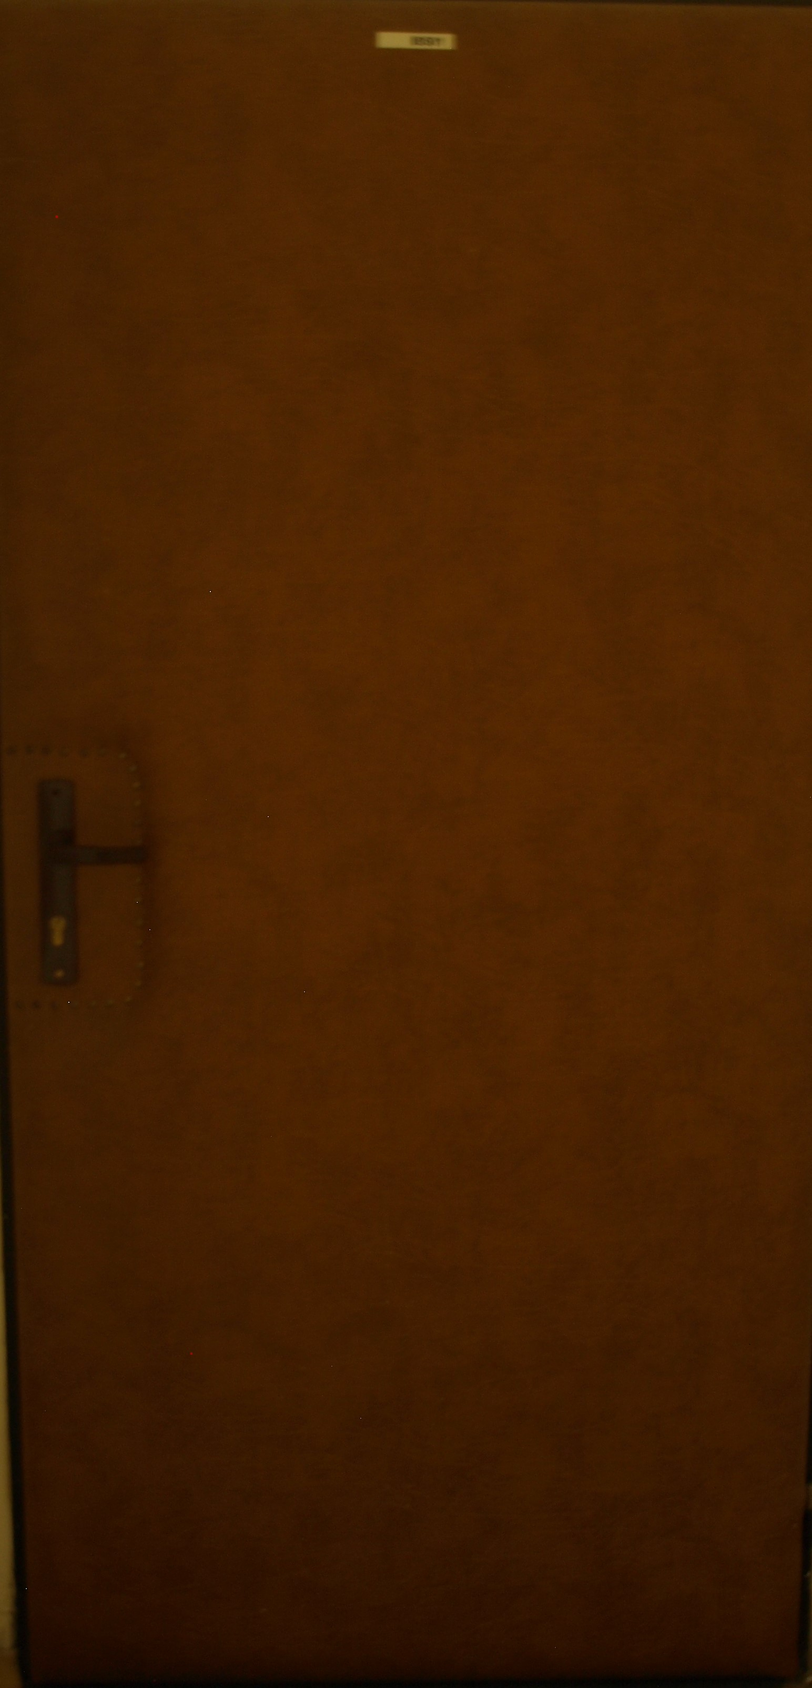
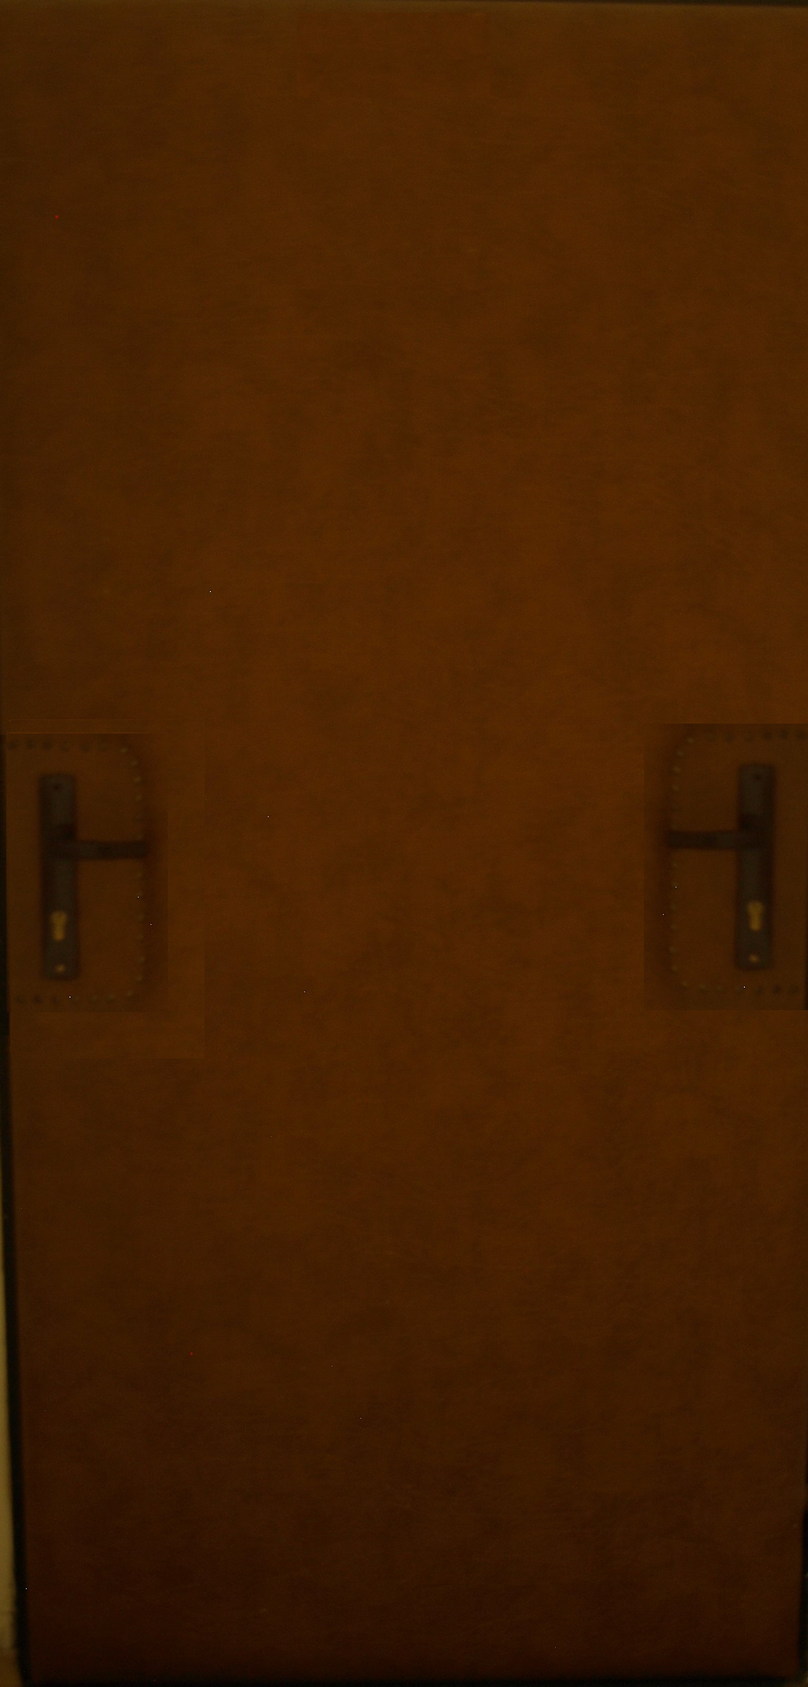
update

diff --git a/public/index.html b/public/index.html
@@ -66,8 +66,15 @@
     <a-box height="28" width="20" depth="0" rotation="0 0 0" position="-49.7 0.5 39" color="grey" static-body></a-box>
     <a-box height="28" width="50" depth="0" rotation="0 0 0" position="-44.75 0.5 15.5" color="grey" static-body></a-box>
     <a-box height="28" width="20" depth="0" rotation="0 0 0" position="-39 0.5 40" color="grey" static-body></a-box>
+    <a-box height="28" width="85" depth="0" rotation="0 0 0" position="-77.507 0.5 42.365" color="#4E3612" static-body></a-box>
 
-
+    <a-box height="28" width="30" depth="0" rotation="0 0 0" position="-145 0.5 42.365" color="#4E3612" static-body></a-box>
+    <a-box height="28" width="30" depth="0" rotation="0 0 0" position="-185 0.5 42.365" color="#4E3612" static-body></a-box>
+    <a-box height="28" width="30" depth="0" rotation="0 0 0" position="-225 0.5 42.365" color="#4E3612" static-body></a-box>
+    <a-box height="28" width="30" depth="0" rotation="0 0 0" position="-265 0.5 42.365" color="#4E3612" static-body></a-box>
+    <a-box height="28" width="30" depth="0" rotation="0 0 0" position="-305 0.5 42.365" color="#4E3612" static-body></a-box>
+    <a-box height="28" width="30" depth="0" rotation="0 0 0" position="-345 0.5 42.365" color="#4E3612" static-body></a-box>
+    <a-box height="28" width="75" depth="0" rotation="0 0 0" position="-406.87 0.5 42.365" color="#4E3612" static-body></a-box>
     <a-assets>
 
         <!-- Avatar -->
@@ -122,11 +129,8 @@
         <a-asset-item id="material1" src="assets/zabradlie.mtl"></a-asset-item>
         <a-asset-item id="object2" src="assets/zabradlie2.obj"></a-asset-item>
         <a-asset-item id="material2" src="assets/zabradlie2.mtl"></a-asset-item>
-        <a-asset-item id="testo" src="assets/test.obj"></a-asset-item>
-        <a-asset-item id="testm" src="assets/test.mtl"></a-asset-item>
     </a-assets>
 
-    <a-obj-model src="#testo" mtl="#testm" position="0 0 7"></a-obj-model>
 
 
     <a-obj-model src="#object" mtl="#material" scale="0.05 0.07 0.05" position="-3 -0.5 -0.5" static-body></a-obj-model>
@@ -173,33 +177,29 @@
 
     <!--   Game    -->
     <a-entity position="-469.5 6 16">
-        <a-triangle mixin="triangle red"
+        <a-triangle mixin="cube red"
                     rotation="0 0 0" animation__click="property: rotation; to: 0 360 0;startEvents: click; loop: true; dur:200; fill: both"
                     animation__click__2="property: object3D.position.y; to: -10; startEvents: click; dur:2000; fill: backwards"
         >
-            <!--            <a-animation begin="click" attribute="position" from="0 0 0"-->
-            <!--                         to="0 -10 0" dur="2000" fill="both" loop="false"></a-animation>-->
-            <!--            <a-animation begin="click" attribute="rotation" to="0 360 0"-->
-            <!--                         easing="linear" dur="2000" fill="backwards"></a-animation>-->
 
         </a-triangle>
     </a-entity>
 
     <a-entity position="-450 6 16">
-        <a-cylinder  mixin="cylinder green"
+        <a-sky  mixin="cube green"
                      rotation="0 0 0" animation__click="property: rotation; to: 0 360 0;startEvents: click; loop: true; dur:200; fill: both"
                      animation__click__2="property: object3D.position.y; to: -10; startEvents: click; dur:2000; fill: backwards">
-        </a-cylinder>
+        </a-sky>
     </a-entity>
 
     <a-entity position="13 6 -190">
-        <a-sphere mixin="sphere blue"
+        <a-sphere mixin="cube blue"
                   rotation="0 0 0" animation__click="property: rotation; to: 0 360 0;startEvents: click; loop: true; dur:200; fill: both"
                   animation__click__2="property: object3D.position.y; to: -10; startEvents: click; dur:2000; fill: backwards">
         </a-sphere>
     </a-entity>
     <a-entity position="3 6 -27">
-        <a-plane mixin="plane yellow"
+        <a-plane mixin="cube yellow"
                  rotation="0 0 0" animation__click="property: rotation; to: 0 360 0;startEvents: click; loop: true; dur:200; fill: both"
                  animation__click__2="property: object3D.position.y; to: -10; startEvents: click; dur:2000; fill: backwards">
         </a-plane>
@@ -235,27 +235,28 @@
            color="#767676"></a-box>
 
     <!--    L9B -->
-    <a-box position="-51.754 6.5 68" rotation="0 0 0" radius="2" height="16" width="25" color="#767676" static-body></a-box>
-    <a-box position="-80 6.5 68" rotation="0 0 0" radius="2" height="16" width="7.5" color="#767676" static-body></a-box>
-    <a-box position="-245.84 6.5 137.37" rotation="0 0 0" radius="2" height="16" width="380" color="#767676" static-body></a-box>
-    <a-box position="-100 6.5 68" rotation="0 0 0" radius="2" height="16" width="7.5" color="#767676" static-body></a-box>
-    <a-box position="-120 6.5 68" rotation="0 0 0" radius="2" height="16" width="7.5" color="#767676" static-body></a-box>
-    <a-box position="-140 6.5 68" rotation="0 0 0" radius="2" height="16" width="7.5" color="#767676" static-body></a-box>
-    <a-box position="-160 6.5 68" rotation="0 0 0" radius="2" height="16" width="7.5" color="#767676" static-body></a-box>
-    <a-box position="-180 6.5 68" rotation="0 0 0" radius="2" height="16" width="7.5" color="#767676" static-body></a-box>
-    <a-box position="-200 6.5 68" rotation="0 0 0" radius="2" height="16" width="7.5" color="#767676" static-body></a-box>
-    <a-box position="-220 6.5 68" rotation="0 0 0" radius="2" height="16" width="7.5" color="#767676" static-body></a-box>
-    <a-box position="-240 6.5 68" rotation="0 0 0" radius="2" height="16" width="7.5" color="#767676" static-body></a-box>
-    <a-box position="-260 6.5 68" rotation="0 0 0" radius="2" height="16" width="7.5" color="#767676" static-body></a-box>
-    <a-box position="-280 6.5 68" rotation="0 0 0" radius="2" height="16" width="7.5" color="#767676" static-body></a-box>
-    <a-box position="-300 6.5 68" rotation="0 0 0" radius="2" height="16" width="7.5" color="#767676" static-body></a-box>
-    <a-box position="-320 6.5 68" rotation="0 0 0" radius="2" height="16" width="7.5" color="#767676" static-body></a-box>
-    <a-box position="-340 6.5 68" rotation="0 0 0" radius="2" height="16" width="7.5" color="#767676" static-body></a-box>
-    <a-box position="-360 6.5 68" rotation="0 0 0" radius="2" height="16" width="7.5" color="#767676" static-body></a-box>
-    <a-box position="-380 6.5 68" rotation="0 0 0" radius="2" height="16" width="7.5" color="#767676" static-body></a-box>
-    <a-box position="-400 6.5 68" rotation="0 0 0" radius="2" height="16" width="7.5" color="#767676" static-body></a-box>
-    <a-box position="-420 6.5 68" rotation="0 0 0" radius="2" height="16" width="7.5" color="#767676" static-body></a-box>
-    <a-box position="-430 6.5 68" rotation="0 0 0" radius="2" height="16" width="27.5" color="#767676" static-body></a-box>
+    <a-box position="-51.754 6.5 68" rotation="0 0 0" radius="2" height="16" width="33" color="#4E3612" static-body></a-box>
+    <a-box position="-82 6.5 68" rotation="0 0 0" radius="2" height="16" width="12" color="#4E3612" static-body></a-box>
+    <a-box position="-245.84 6.5 137.37" rotation="0 0 0" radius="2" height="16" width="380" color="grey" static-body></a-box>
+    <a-box position="-102 6.5 68" rotation="0 0 0" radius="2" height="16" width="12" color="#4E3612" static-body></a-box>
+    <a-box position="-122 6.5 68" rotation="0 0 0" radius="2" height="16" width="12" color="#4E3612" static-body></a-box>
+    <a-box position="-142 6.5 68" rotation="0 0 0" radius="2" height="16" width="12" color="#4E3612" static-body></a-box>
+    <a-box position="-162 6.5 68" rotation="0 0 0" radius="2" height="16" width="12" color="#4E3612" static-body></a-box>
+    <a-box position="-182 6.5 68" rotation="0 0 0" radius="2" height="16" width="12" color="#4E3612" static-body></a-box>
+    <a-box position="-202 6.5 68" rotation="0 0 0" radius="2" height="16" width="12" color="#4E3612" static-body></a-box>
+    <a-box position="-222 6.5 68" rotation="0 0 0" radius="2" height="16" width="12" color="#4E3612" static-body></a-box>
+    <a-box position="-242 6.5 68" rotation="0 0 0" radius="2" height="16" width="12" color="#4E3612" static-body></a-box>
+    <a-box position="-262 6.5 68" rotation="0 0 0" radius="2" height="16" width="12" color="#4E3612" static-body></a-box>
+    <a-box position="-282 6.5 68" rotation="0 0 0" radius="2" height="16" width="12" color="#4E3612" static-body></a-box>
+    <a-box position="-302 6.5 68" rotation="0 0 0" radius="2" height="16" width="12" color="#4E3612" static-body></a-box>
+    <a-box position="-322 6.5 68" rotation="0 0 0" radius="2" height="16" width="12" color="#4E3612" static-body></a-box>
+    <a-box position="-342 6.5 68" rotation="0 0 0" radius="2" height="16" width="12" color="#4E3612" static-body></a-box>
+    <a-box position="-362 6.5 68" rotation="0 0 0" radius="2" height="16" width="12" color="#4E3612" static-body></a-box>
+    <a-box position="-382 6.5 68" rotation="0 0 0" radius="2" height="16" width="12" color="#4E3612" static-body></a-box>
+    <a-box position="-402 6.5 68" rotation="0 0 0" radius="2" height="16" width="12" color="#4E3612" static-body></a-box>
+    <a-box position="-422 6.5 68" rotation="0 0 0" radius="2" height="16" width="12" color="#4E3612" static-body></a-box>
+    <a-box position="-432 6.5 68" rotation="0 0 0" radius="2" height="16" width="27.5" color="#4E3612" static-body></a-box>
+
 
     <a-box position="-56.572 6.5 102.88" rotation="0 90 0" radius="2" height="16" width="70" color="#767676" static-body></a-box>
     <a-box position="-76.572 6.5 102.88" rotation="0 90 0" radius="2" height="16" width="70" color="#767676" static-body></a-box>
@@ -276,45 +277,103 @@
     <a-box position="-376.572 6.5 102.88" rotation="0 90 0" radius="2" height="16" width="70" color="#767676" static-body></a-box>
     <a-box position="-396.572 6.5 102.88" rotation="0 90 0" radius="2" height="16" width="70" color="#767676" static-body></a-box>
     <a-box position="-416.572 6.5 102.88" rotation="0 90 0" radius="2" height="16" width="70" color="#767676" static-body></a-box>
-<!--    <a-box position="-48.4 6.5 40" rotation="0 0 0" radius="2" height="16" width="8" static-body-->
-<!--           color="#767676"></a-box>-->
-<!--    <a-box position="-47 6.5 40" rotation="0 0 0" radius="2" height="16" width="8" static-body-->
-<!--           color="#767676"></a-box>-->
-<!--    <a-box position="-63 6.5 40" rotation="0 0 0" radius="2" height="16" width="8" static-body-->
-<!--           color="#767676"></a-box>-->
-<!--    <a-box position="-79 6.5 40" rotation="0 0 0" radius="2" height="16" width="8" static-body-->
-<!--           color="#767676"></a-box>-->
-<!--    <a-box position="-95 6.5 40" rotation="0 0 0" radius="2" height="16" width="8" static-body-->
-<!--           color="#767676"></a-box>-->
-<!--    <a-box position="-111 6.5 40" rotation="0 0 0" radius="2" height="16" width="8" static-body-->
-<!--           color="#767676"></a-box>-->
-<!--    <a-box position="-127 6.5 40" rotation="0 0 0" radius="2" height="16" width="8" static-body-->
-<!--           color="#767676"></a-box>-->
-<!--    <a-box position="-143 6.5 40" rotation="0 0 0" radius="2" height="16" width="8" static-body-->
-<!--           color="#767676"></a-box>-->
-<!--    <a-box position="-159 6.5 40" rotation="0 0 0" radius="2" height="16" width="8" static-body-->
-<!--           color="#767676"></a-box>-->
-<!--    <a-box position="-175 6.5 40" rotation="0 0 0" radius="2" height="16" width="8" static-body-->
-<!--           color="#767676"></a-box>-->
 
-<!--    <a-box position="-47 6.5 68" rotation="0 0 0" radius="2" height="16" width="8" static-body-->
-<!--           color="#767676"></a-box>-->
-<!--    <a-box position="-63 6.5 68" rotation="0 0 0" radius="2" height="16" width="8" static-body-->
-<!--           color="#767676"></a-box>-->
-<!--    <a-box position="-79 6.5 68" rotation="0 0 0" radius="2" height="16" width="8" static-body-->
-<!--           color="#767676"></a-box>-->
-<!--    <a-box position="-95 6.5 68" rotation="0 0 0" radius="2" height="16" width="8" static-body-->
-<!--           color="#767676"></a-box>-->
-<!--    <a-box position="-111 6.5 68" rotation="0 0 0" radius="2" height="16" width="8" static-body-->
-<!--           color="#767676"></a-box>-->
-<!--    <a-box position="-127 6.5 68" rotation="0 0 0" radius="2" height="16" width="8" static-body-->
-<!--           color="#767676"></a-box>-->
-<!--    <a-box position="-143 6.5 68" rotation="0 0 0" radius="2" height="16" width="8" static-body-->
-<!--           color="#767676"></a-box>-->
-<!--    <a-box position="-159 6.5 68" rotation="0 0 0" radius="2" height="16" width="8" static-body-->
-<!--           color="#767676"></a-box>-->
-<!--    <a-box position="-175 6.5 68" rotation="0 0 0" radius="2" height="16" width="8" static-body-->
-<!--           color="#767676"></a-box>-->
+    <a-assets>
+        <img id="texture" src="img/door11.jpg" alt="door">
+    </a-assets>
+
+   <a-box src="#texture" animation__click="property: rotation; to: 0 90 0;startEvents: click; loop: false; dur:2000;" position="-76.55 6.5 67.999" rotation="0 0 0" radius="2" height="16" width="17" depth="0.8" static-body>
+   </a-box>
+    <a-box src="#texture" animation__click="property: rotation; to: 0 90 0;startEvents: click; loop: false; dur:2000;" position="-96.55 6.5 67.999" rotation="0 0 0" radius="2" height="16" width="17" depth="0.8" static-body>
+    </a-box>
+    <a-box src="#texture" animation__click="property: rotation; to: 0 90 0;startEvents: click; loop: false; dur:2000;" position="-116.55 6.5 67.999" rotation="0 0 0" radius="2" height="16" width="17" depth="0.8" static-body>
+    </a-box>
+    <a-box src="#texture" animation__click="property: rotation; to: 0 90 0;startEvents: click; loop: false; dur:2000;" position="-136.55 6.5 67.999" rotation="0 0 0" radius="2" height="16" width="17" depth="0.8" static-body>
+    </a-box>
+    <a-box src="#texture" animation__click="property: rotation; to: 0 90 0;startEvents: click; loop: false; dur:2000;" position="-156.55 6.5 67.999" rotation="0 0 0" radius="2" height="16" width="17" depth="0.8" static-body>
+    </a-box>
+    <a-box src="#texture" animation__click="property: rotation; to: 0 90 0;startEvents: click; loop: false; dur:2000;" position="-176.55 6.5 67.999" rotation="0 0 0" radius="2" height="16" width="17" depth="0.8" static-body>
+    </a-box>
+    <a-box src="#texture" animation__click="property: rotation; to: 0 90 0;startEvents: click; loop: false; dur:2000;" position="-196.55 6.5 67.999" rotation="0 0 0" radius="2" height="16" width="17" depth="0.8" static-body>
+    </a-box>
+    <a-box src="#texture" animation__click="property: rotation; to: 0 90 0;startEvents: click; loop: false; dur:2000;" position="-216.55 6.5 67.999" rotation="0 0 0" radius="2" height="16" width="17" depth="0.8" static-body>
+    </a-box>
+    <a-box src="#texture" animation__click="property: rotation; to: 0 90 0;startEvents: click; loop: false; dur:2000;" position="-236.55 6.5 67.999" rotation="0 0 0" radius="2" height="16" width="17" depth="0.8" static-body>
+    </a-box>
+    <a-box src="#texture" animation__click="property: rotation; to: 0 90 0;startEvents: click; loop: false; dur:2000;" position="-256.55 6.5 67.999" rotation="0 0 0" radius="2" height="16" width="17" depth="0.8" static-body>
+    </a-box>
+    <a-box src="#texture" animation__click="property: rotation; to: 0 90 0;startEvents: click; loop: false; dur:2000;" position="-276.55 6.5 67.999" rotation="0 0 0" radius="2" height="16" width="17" depth="0.8" static-body>
+    </a-box>
+    <a-box src="#texture" animation__click="property: rotation; to: 0 90 0;startEvents: click; loop: false; dur:2000;" position="-296.55 6.5 67.999" rotation="0 0 0" radius="2" height="16" width="17" depth="0.8" static-body>
+    </a-box>
+    <a-box src="#texture" animation__click="property: rotation; to: 0 90 0;startEvents: click; loop: false; dur:2000;" position="-316.55 6.5 67.999" rotation="0 0 0" radius="2" height="16" width="17" depth="0.8" static-body>
+    </a-box>
+    <a-box src="#texture" animation__click="property: rotation; to: 0 90 0;startEvents: click; loop: false; dur:2000;" position="-336.55 6.5 67.999" rotation="0 0 0" radius="2" height="16" width="17" depth="0.8" static-body>
+    </a-box>
+    <a-box src="#texture" animation__click="property: rotation; to: 0 90 0;startEvents: click; loop: false; dur:2000;" position="-356.55 6.5 67.999" rotation="0 0 0" radius="2" height="16" width="17" depth="0.8" static-body>
+    </a-box>
+    <a-box src="#texture" animation__click="property: rotation; to: 0 90 0;startEvents: click; loop: false; dur:2000;" position="-376.55 6.5 67.999" rotation="0 0 0" radius="2" height="16" width="17" depth="0.8" static-body>
+    </a-box>
+    <a-box src="#texture" animation__click="property: rotation; to: 0 90 0;startEvents: click; loop: false; dur:2000;" position="-396.55 6.5 67.999" rotation="0 0 0" radius="2" height="16" width="17" depth="0.8" static-body>
+    </a-box>
+    <a-box src="#texture" animation__click="property: rotation; to: 0 90 0;startEvents: click; loop: false; dur:2000;" position="-416.55 6.5 67.999" rotation="0 0 0" radius="2" height="16" width="17" depth="0.8" static-body>
+    </a-box>
+
+
+    <a-image src="#my-image33"  position="-124.63 6.5 41.94" rotation="0 0 0" radius="1" height="16" width="11.5" static-body></a-image>
+    <a-image src="#my-image44"  position="-164.99 6.5 41.94" rotation="0 0 0" radius="1" height="16" width="10" static-body></a-image>
+    <a-image src="#my-image33"  position="-204.63 6.5 41.94" rotation="0 0 0" radius="1" height="16" width="11.5" static-body></a-image>
+    <a-image src="#my-image44"  position="-244.99 6.5 41.94" rotation="0 0 0" radius="1" height="16" width="10" static-body></a-image>
+    <a-image src="#my-image44"  position="-284.99 6.5 41.94" rotation="0 0 0" radius="1" height="16" width="10" static-body></a-image>
+    <a-image src="#my-image33"  position="-324.63 6.5 41.94" rotation="0 0 0" radius="1" height="16" width="11.5" static-body></a-image>
+
+    <a-image src="#my-image11"  position="-62.2 7.284 136.75" rotation="0 0 0" height="10" width="7" static-body></a-image>
+    <a-image src="#my-image11"  position="-82.2 7.284 136.75" rotation="0 0 0" height="10" width="7" static-body></a-image>
+    <a-image src="#my-image11"  position="-102.2 7.284 136.75" rotation="0 0 0" height="10" width="7" static-body></a-image>
+    <a-image src="#my-image11"  position="-122.2 7.284 136.75" rotation="0 0 0" height="10" width="7" static-body></a-image>
+    <a-image src="#my-image11"  position="-142.2 7.284 136.75" rotation="0 0 0" height="10" width="7" static-body></a-image>
+    <a-image src="#my-image11"  position="-162.2 7.284 136.75" rotation="0 0 0" height="10" width="7" static-body></a-image>
+    <a-image src="#my-image11"  position="-182.2 7.284 136.75" rotation="0 0 0" height="10" width="7" static-body></a-image>
+    <a-image src="#my-image11"  position="-202.2 7.284 136.75" rotation="0 0 0" height="10" width="7" static-body></a-image>
+    <a-image src="#my-image11"  position="-222.2 7.284 136.75" rotation="0 0 0" height="10" width="7" static-body></a-image>
+    <a-image src="#my-image11"  position="-242.2 7.284 136.75" rotation="0 0 0" height="10" width="7" static-body></a-image>
+    <a-image src="#my-image11"  position="-262.2 7.284 136.75" rotation="0 0 0" height="10" width="7" static-body></a-image>
+    <a-image src="#my-image11"  position="-282.2 7.284 136.75" rotation="0 0 0" height="10" width="7" static-body></a-image>
+    <a-image src="#my-image11"  position="-302.2 7.284 136.75" rotation="0 0 0" height="10" width="7" static-body></a-image>
+    <a-image src="#my-image11"  position="-322.2 7.284 136.75" rotation="0 0 0" height="10" width="7" static-body></a-image>
+    <a-image src="#my-image11"  position="-342.2 7.284 136.75" rotation="0 0 0" height="10" width="7" static-body></a-image>
+    <a-image src="#my-image11"  position="-362.2 7.284 136.75" rotation="0 0 0" height="10" width="7" static-body></a-image>
+    <a-image src="#my-image11"  position="-382.2 7.284 136.75" rotation="0 0 0" height="10" width="7" static-body></a-image>
+    <a-image src="#my-image11"  position="-402.2 7.284 136.75" rotation="0 0 0" height="10" width="7" static-body></a-image>
+
+
+    <a-image src="#my-image11"  position="-70.6 7.284 136.75" rotation="0 0 0" height="10" width="7" static-body></a-image>
+    <a-image src="#my-image11"  position="-90.6 7.284 136.75" rotation="0 0 0" height="10" width="7" static-body></a-image>
+    <a-image src="#my-image11"  position="-110.6 7.284 136.75" rotation="0 0 0" height="10" width="7" static-body></a-image>
+    <a-image src="#my-image11"  position="-130.6 7.284 136.75" rotation="0 0 0" height="10" width="7" static-body></a-image>
+    <a-image src="#my-image11"  position="-150.6 7.284 136.75" rotation="0 0 0" height="10" width="7" static-body></a-image>
+    <a-image src="#my-image11"  position="-170.6 7.284 136.75" rotation="0 0 0" height="10" width="7" static-body></a-image>
+    <a-image src="#my-image11"  position="-190.6 7.284 136.75" rotation="0 0 0" height="10" width="7" static-body></a-image>
+    <a-image src="#my-image11"  position="-210.6 7.284 136.75" rotation="0 0 0" height="10" width="7" static-body></a-image>
+    <a-image src="#my-image11"  position="-230.6 7.284 136.75" rotation="0 0 0" height="10" width="7" static-body></a-image>
+    <a-image src="#my-image11"  position="-250.6 7.284 136.75" rotation="0 0 0" height="10" width="7" static-body></a-image>
+    <a-image src="#my-image11"  position="-270.6 7.284 136.75" rotation="0 0 0" height="10" width="7" static-body></a-image>
+    <a-image src="#my-image11"  position="-290.6 7.284 136.75" rotation="0 0 0" height="10" width="7" static-body></a-image>
+    <a-image src="#my-image11"  position="-310.6 7.284 136.75" rotation="0 0 0" height="10" width="7" static-body></a-image>
+    <a-image src="#my-image11"  position="-330.6 7.284 136.75" rotation="0 0 0" height="10" width="7" static-body></a-image>
+    <a-image src="#my-image11"  position="-350.6 7.284 136.75" rotation="0 0 0" height="10" width="7" static-body></a-image>
+    <a-image src="#my-image11"  position="-370.6 7.284 136.75" rotation="0 0 0" height="10" width="7" static-body></a-image>
+    <a-image src="#my-image11"  position="-390.6 7.284 136.75" rotation="0 0 0" height="10" width="7" static-body></a-image>
+    <a-image src="#my-image11"  position="-410.6 7.284 136.75" rotation="0 0 0" height="10" width="7" static-body></a-image>
+
+    <a-assets>
+        <img id="my-image73" src="img/door12.jpg" alt="my-image">
+    </a-assets>
+
+    <a-image src="#my-image73"  position="-364.99 6.5 41.94" rotation="0 0 0" radius="1" height="16" width="10" static-body></a-image>
+
+
+
     <a-box position="-456 6.5 68" rotation="0 0 0" radius="2" height="16" width="8" static-body
            color="#767676"></a-box>
     <a-box position="-472 6.5 68" rotation="0 0 0" radius="2" height="16" width="8" static-body
@@ -585,7 +644,7 @@
     <a-image src="#my-image62"  position="-459.5 6.5 45" rotation="0 180 0" radius="2" height="16" width="10" static-body></a-image>
     <a-image src="#my-image63"  position="-455 6.5 29" rotation="0 270 0" radius="2" height="16" width="32" static-body></a-image>
     <a-image src="#my-image64"  position="-450 7.293 14" rotation="0 180 0" radius="2" height="15" width="11" static-body></a-image>
-    <a-image src="#my-image65"  position="-445 6.5 24" rotation="0 270 0" radius="2" height="16" width="32" static-body></a-image>
+    <a-image src="#my-image65"  position="-445 6.5 28.329" rotation="0 270 0" radius="2" height="16" width="28" static-body></a-image>
     <a-image src="#my-image66"  position="-56.9 5.3 26.98" rotation="0 90 0" radius="2" height="16" width="20" static-body></a-image>
     <a-image src="#my-image67"  position="-52.211 7 16.1" rotation="0 0 0" height="12" width="8" static-body></a-image>
     <a-image src="#my-image68" position="-43.401 7 16.1" rotation="0 0 0" height="12" width="8" static-body></a-image>
@@ -599,7 +658,7 @@
     <!--    Player   -->
     <a-entity id="player" networked="template:#avatar-template;attachTemplateToLocal:false;" spawn-in-circle="radius:3;" kinematic-body="radius: 0.8" movement-controls="fly: false " mouse-based cursor tracked-controls look-controls raycaster crawling-cursor>
         <a-entity camera position="0 6 0" >
-            <a-text id="score" text="value: Objects: 0 of 4" position="0 2 -2.5"></a-text>
+            <a-text id="score" text="value: Cubes: 0 of 4" position="0 2 -2.5"></a-text>
             <a-entity position="0 0 -3"
                       geometry="primitive: ring; radiusInner: 0.2; radiusOuter: 0.3;"
                       material="color: cyan; shader: flat"

diff --git a/public/js/index.js b/public/js/index.js
@@ -43,8 +43,7 @@ AFRAME.registerComponent('score-counter', {
     init: function () {
         var sceneEl = document.querySelector('a-scene');
         var scoreBoard = document.querySelector('#score');
-
-        sceneEl.querySelector("a-triangle").addEventListener('click', () => {
+        sceneEl.querySelector("a-sky").addEventListener('click', () => {
             if(this.data.score === 3) {
                 scoreBoard.setAttribute('text','value',"You won !!!");
             }else {
@@ -53,7 +52,7 @@ AFRAME.registerComponent('score-counter', {
                 scoreBoard.setAttribute('text', 'value', newScore);
             }
         });
-        sceneEl.querySelector("a-cylinder").addEventListener('click', () => {
+        sceneEl.querySelector("a-triangle").addEventListener('click', () => {
             if(this.data.score === 3) {
                 scoreBoard.setAttribute('text','value',"You won !!!");
             }else {
